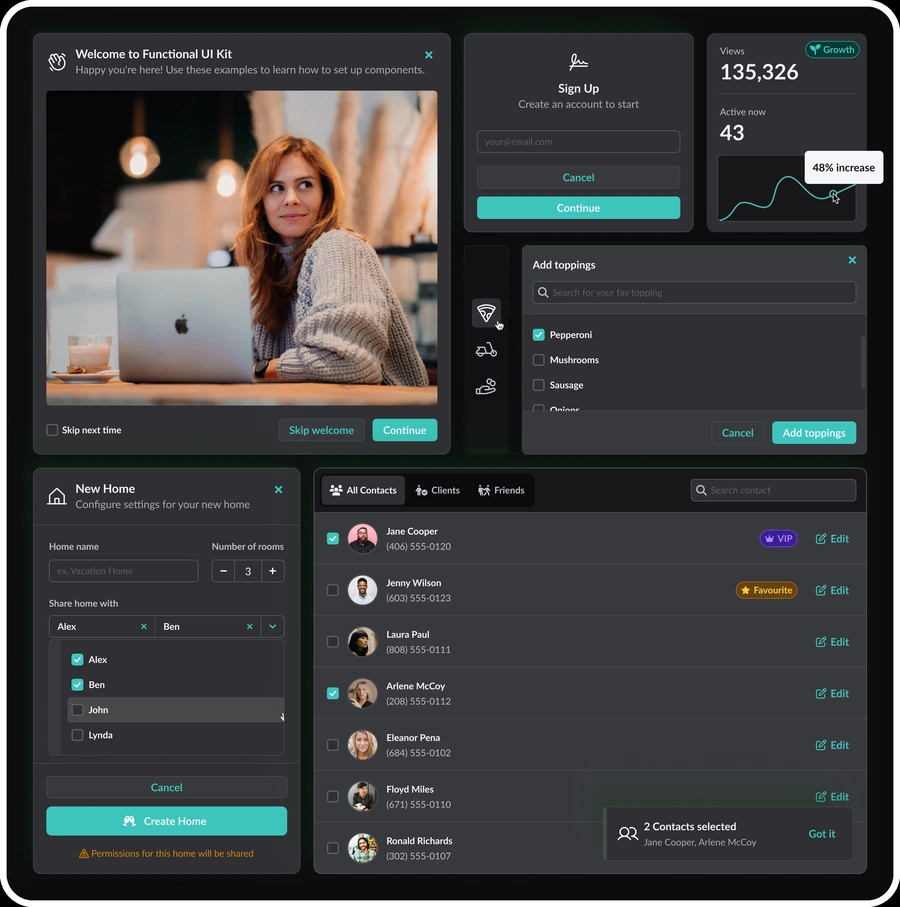
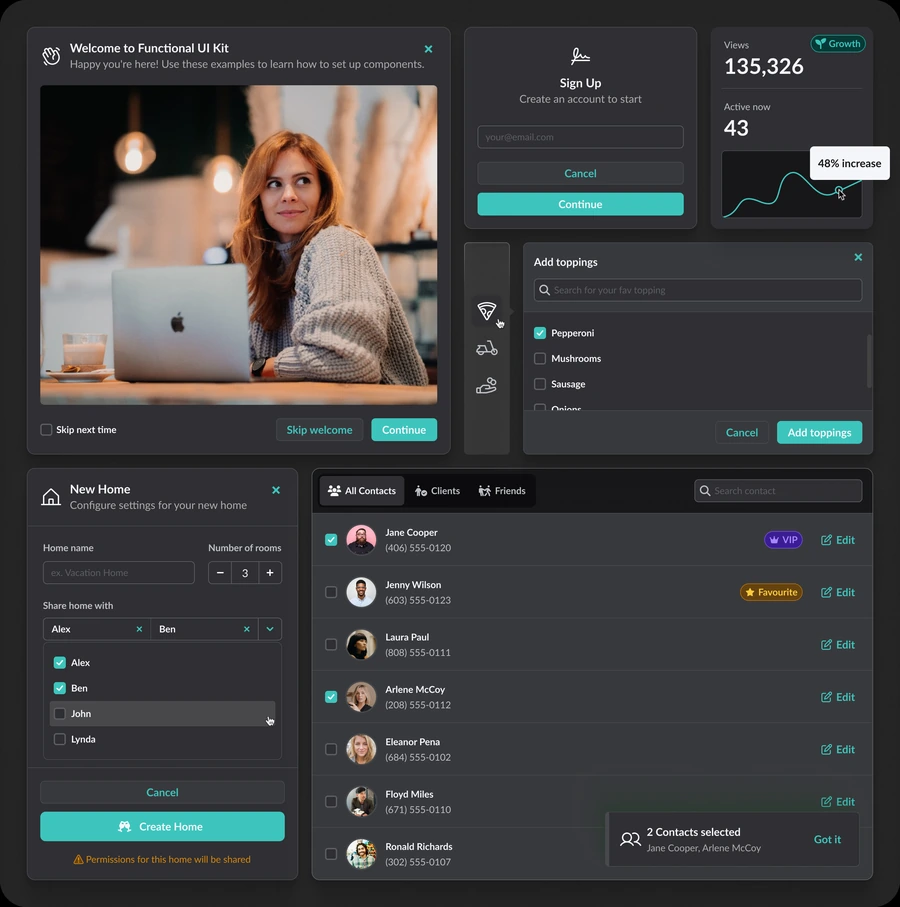
Update Functional UI Kit dark-mode screenshot
Swap in the re-exported dark variant (refined dark panels), re-encoded at
900x907 q92 WebP (~70KB, same box dimensions). Cache-bust the dark src to
?v=2 so returning visitors get it immediately; the light variant is untouched.

diff --git a/index.html b/index.html
@@ -304,7 +304,7 @@
           <span class="cv-entry__title">Functional UI Kit</span>
         </h2>
         <p class="cv-entry__body">Award-winning <a href="https://functional-ui-kit.com/">design system</a> aligning what's possible.</p>
-        <img class="cv-entry__shot cv-entry__shot--dark" src="images/functional-ui-kit-dark.webp" width="900" height="907" alt="Functional UI Kit example screen" loading="lazy" decoding="async">
+        <img class="cv-entry__shot cv-entry__shot--dark" src="images/functional-ui-kit-dark.webp?v=2" width="900" height="907" alt="Functional UI Kit example screen" loading="lazy" decoding="async">
         <img class="cv-entry__shot cv-entry__shot--light" src="images/functional-ui-kit-light.webp" width="900" height="907" alt="Functional UI Kit example screen" loading="lazy" decoding="async">
       </section>
 
